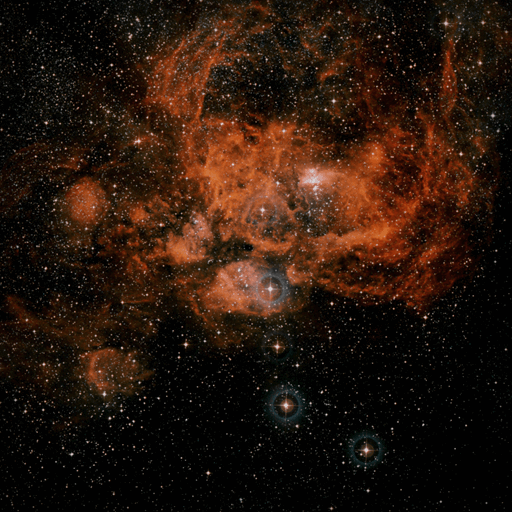
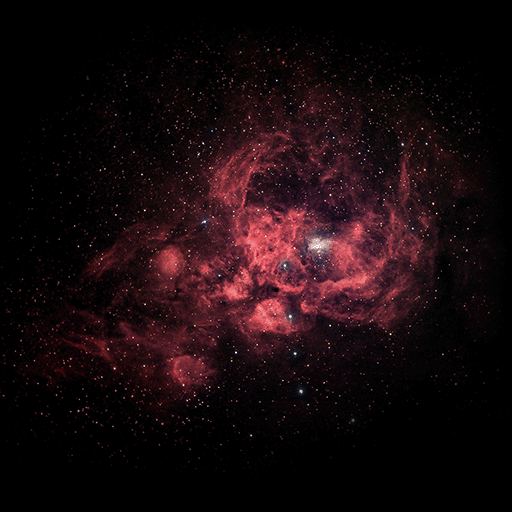
Updated some DSO textures (#815)

diff --git a/CREDITS.md b/CREDITS.md
@@ -350,7 +350,7 @@
 	     http://kepler-observatorium.ru
 	     License: Creative Commons Attribution 3.0 Unported
 	4.16 Images of NGC2903, NGC3185, NGC3187, NGC3189,
-	     NGC3190, NGC3193, NGC3718, NGC3729, NGC4490, NGC5981, NGC5982,
+	     NGC3190, NGC3193, NGC3718, NGC3729, NGC5981, NGC5982,
 	     NGC5985
 	     from Oleg Bryzgalov 
 	     http://olegbr.astroclub.kiev.ua/
@@ -375,20 +375,20 @@
 	     License: Creative Commons Attribution 4.0 International
 	4.22 Images of SMC (Magellanic Clouds) from Albert Van
 	     Donkelaar
-	4.23 Images of NGC1365, NGC6726, NGC6744, NGC6752, NGC7293
+	4.23 Images of NGC1365, NGC6726, NGC6744, NGC7293
 	     from Philip Montgomery
 	     http://www.kenthurst.bigpondhosting.com/
 	4.24 The Vesta and Ceres map was taken from USGS website
 	     https://astrogeology.usgs.gov/
 	     and colored by RVS. License: public domain.
-	4.25 Images of M3, M13, M15, M24, M51, M58, M63, M76,
+	4.25 Images of M15, M24, M51, M58, M63, M76,
 	     M81, M82, M96, M101, M105, M106, IC405, IC443, IC1727, NGC246, 
 	     NGC457, NGC467, NGC470, NGC474, NGC488, NGC672, NGC691, NGC1514, 
 	     NGC1961, NGC2174, NGC2371, NGC2392, NGC2403, NGC2655, NGC2685, 
 	     NGC2805, NGC2814, NGC2820, NGC2841, NGC3166, NGC3310, NGC3344, 
 	     NGC3359, NGC3504, NGC3512, NGC3521, NGC3628, NGC3938, NGC4151, 
 	     NGC4535, NGC4559, NGC4631, NGC4656, NGC4657, NGC5033, NGC7008, 
-	     NGC7318, NGC7331, NGC7380, NGC7479, NGC7635, NGC7640, NGC7789, 
+	     NGC7318, NGC7331, NGC7479, NGC7635, NGC7640, NGC7789, 
 	     PGC1803573, Barnard 142, Barnard 173, Sh2-101, 
 	     LDN1235, Sadr region (Gamma Cygni), Jones-Emberson 1, Medusa
 	     from Peter Vasey, Plover Hill Observatory
@@ -396,7 +396,7 @@
 	4.26 Image of IC3568 from Howard Bond (Space Telescope Science Institute), Robin Ciardullo (Pennsylvania State University) and NASA
 	     License: public domain
 	4.27 Image of solar corona from eclipse 2008-08-01 by Georg Zotti
-	4.28 Images of IC59, IC63, IC410, NGC2359 from Carole Pope
+	4.28 Images of IC410, NGC2359 from Carole Pope
 	     https://sites.google.com/site/caroleastroimaging/
 	4.29 Images of NGC2261, NGC2818, NGC2936, NGC3314, NGC3690, NGC3918,
 	     NGC4038-4039, NGC5257, NGC6027, NGC6050, NGC6369, NGC6826, NGC7742, IC883,
@@ -414,7 +414,7 @@
 	     http://www2.lowell.edu/
 	     License: public domain
 	4.34 Images of M59, M60, M89, M90, IC2177, IC2220, IC2631, NGC1433,
-	     NGC1788, NGC2442, NGC2547, NGC6334, NGC6357, PGC10074,
+	     NGC1788, NGC2442, PGC10074,
 	     RCW32, RCW38, RCW49, Fornax Cluster, Virgo Cluster
 	     from ESO/Digitized Sky Survey 2
 	     http://eso.org/public/
@@ -430,7 +430,7 @@
 	4.38 Images of IC1396 from Giuseppe Donatiello
 	     License: Creative Commons CC0 1.0 Universal Public Domain Dedication
 	4.39 Images of M4, M12, M14, M19, M22, M55, M56, M62, M88, M92, M108, 
-	     M109, IC5146, NGC225, NGC663, NGC891, NGC1931, NGC6823, NGC7814, Sh2-155 
+	     M109, IC5146, NGC225, NGC663, NGC891, NGC1931, NGC6823, NGC7814
 	     from Hewholooks
 	     https://commons.wikimedia.org/wiki/
 	     License: Creative Commons Attribution-Share Alike 3.0 Unported
@@ -448,13 +448,13 @@
 	     http://www.caelumobservatory.com/
 	     License: Creative Commons Attribution-Share Alike 3.0 Unported
 	4.42 Images of IC1295, NGC134, NGC92, NGC55, NGC300, NGC936, NGC1232, NGC1313, NGC1316, NGC1978, 
-	     NGC2207, NGC2736, NGC3532, NGC4945, NGC5128, NGC5189, NGC6362, NGC6769, NGC6822, NGC7793
+	     NGC2207, NGC2736, NGC3532, NGC4945, NGC5128, NGC5189, NGC6362, NGC6752, NGC6769, NGC6822, NGC7793
 	     from ESO
 	     http://eso.org/public/
 	     License: Creative Commons Attribution 4.0 International
  	4.43 Images of M33, M42, NGC253, NGC2170, NGC5566, LBN782, the Pleiades from HG731GZ
 	     License: Creative Commons Attribution 3.0 Unported
-	4.44 Images of M8, M17, M94, M104, IC434, IC2944, NGC2264, NGC6726, SMC (Hydrogen Alpha)
+	4.44 Images of M8, M17, M94, M104, IC434, IC2944, NGC2264, NGC6334, NGC6357, NGC6726, SMC (Hydrogen Alpha)
 	     from Dylan O'Donnell
 	     http://deography.com/
 	     License: public domain
@@ -480,11 +480,11 @@
 	     from Gianluca.pollastri
 	     https://commons.wikimedia.org/wiki/
 	     License: Creative Commons Attribution-Share Alike 4.0 International
-	4.50 Images of M2, M5, M10, M28, M30, M53, M54, M69, M71, M75, M78, M107
+	4.50 Images of M2, M3, M5, M13, M10, M28, M30, M53, M54, M69, M71, M75, M78, M107
 	     from Starhopper
 	     https://commons.wikimedia.org/wiki/
 	     License: Creative Commons Attribution-Share Alike 4.0 International
-	4.51 Images of M95, NGC520, NGC660, NGC925, NGC1300, NGC7129, NGC7497, NGC6888
+	4.51 Images of M95, NGC520, NGC660, NGC925, NGC1300, NGC4490, NGC6888, NGC7129, NGC7497
 	     from Jschulman555
 	     https://commons.wikimedia.org/wiki/
 	     License: Creative Commons Attribution 3.0 Unported
@@ -518,7 +518,7 @@
 	     from Chuck Ayoub
 	     https://commons.wikimedia.org/wiki/
 	     License:  Creative Commons Attribution-Share Alike 4.0 International
-	4.60 Images of IC2169, NGC2244, NGC3077, SH2-263, UGC10822, Barnard 22, Barnard207
+	4.60 Images of IC2169, NGC2244, NGC3077, SH2-155, SH2-263, UGC10822, Barnard 22, Barnard207
 	     from Keesscherer
 	     https://commons.wikimedia.org/wiki/
 	     License:  Creative Commons Attribution-Share Alike 4.0 International
@@ -529,7 +529,7 @@
 	     from ESO and Joe DePasquale
 	     http://eso.org/public/
 	     License: Creative Commons Attribution 4.0 International 
-	4.63 Images of Vela supernova remnant
+	4.63 Images of NGC2547, Vela supernova remnant
 	     from ESO/J.Perez
 	     http://eso.org/public/
 	     License: Creative Commons Attribution 4.0 International 
@@ -564,7 +564,7 @@
 	     from ESO, F. Ferraro (University of Bologna)
 	     http://eso.org/public/
 	     License: Creative Commons Attribution 4.0 International 
-	4.72 Images of SH2-80, SH2-106
+	4.72 Images of NGC7380, SH2-80, SH2-106
 	     from Cristina Cellini
 	     https://commons.wikimedia.org/wiki/
 	     License: Creative Commons Attribution 4.0 International
@@ -572,7 +572,7 @@
 	     from Davide De Martin & the ESA/ESO/NASA Photoshop FITS Liberator
 	     https://www.spacetelescope.org/
 	     License: Creative Commons Attribution 4.0 International 
-	4.74 Images of SH2-240
+	4.74 Images of SH2-1, SH2-240
 	     from Rogelio Bernal Andreo
 	     https://commons.wikimedia.org/wiki/
 	     License: Creative Commons Attribution-Share Alike 3.0 Unported
@@ -664,6 +664,13 @@
 	     from ESO/S. Guisard
 	     http://eso.org/public/
 	     License: Creative Commons Attribution 4.0 International 
+	4.97 Images of IC59, IC63
+	     from Zhang Ruiping
+	     License: Creative Commons Attribution 4.0 International 
+	4.98 Images of IC423
+	     from Astrowicht
+	     https://commons.wikimedia.org/wiki/
+	     License: Creative Commons Attribution-Share Alike 3.0 Unported
 ```
 
 ## Appendix
